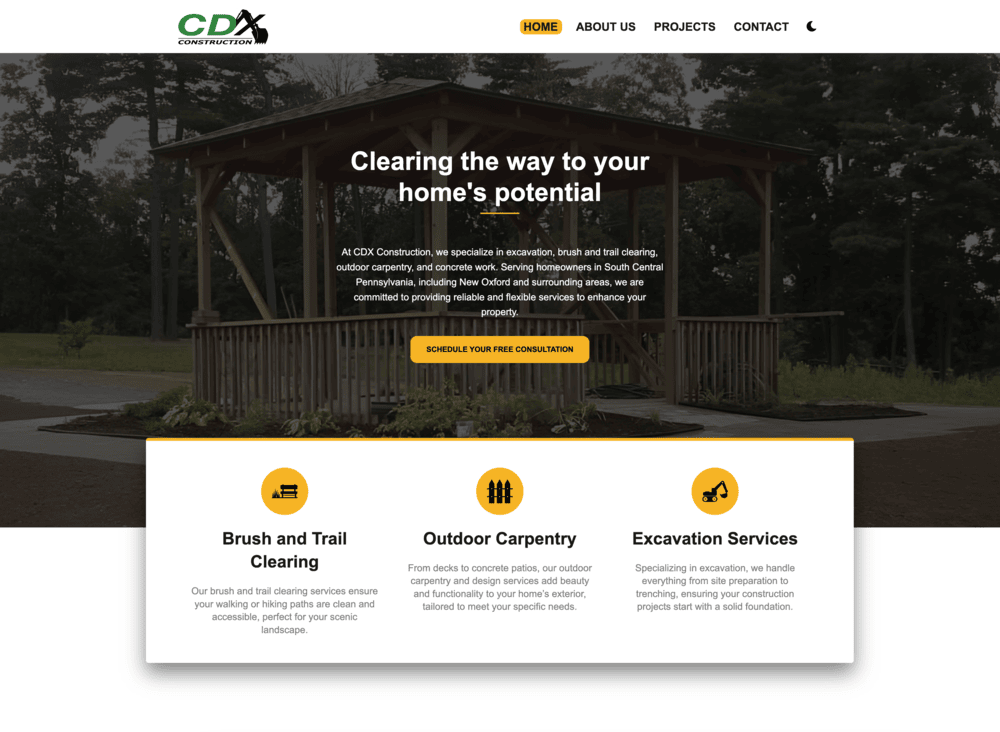
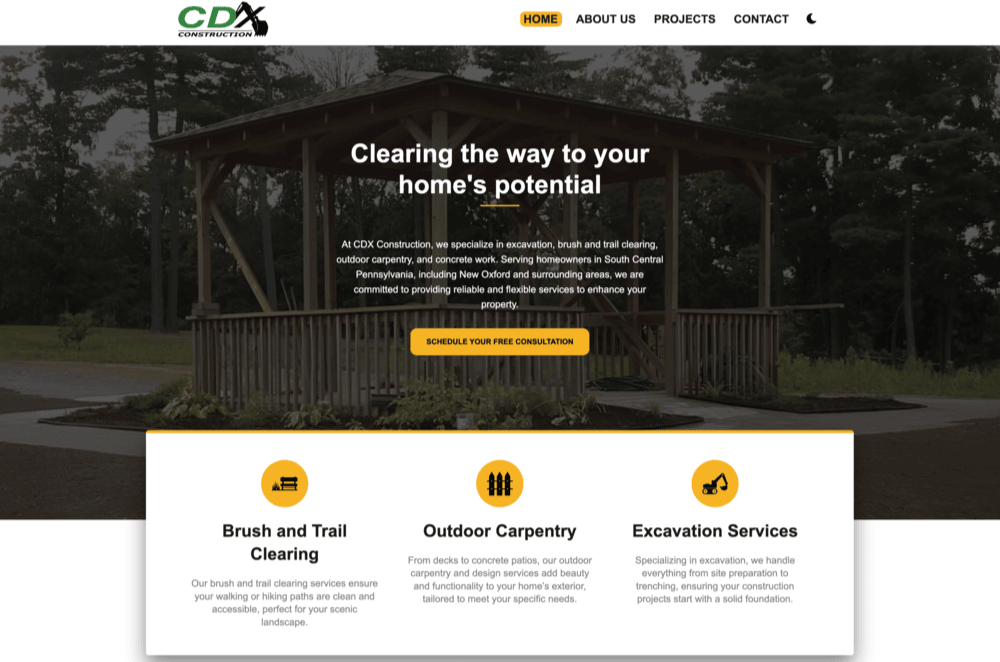
Additional image compression optimizations

diff --git a/src/index.html b/src/index.html
@@ -134,7 +134,7 @@ eleventyNavigation:
                 <source media="(max-width: 600px)" srcset="assets/images/devices1.png">
                 <!--Tablet and above Image-->
                 <source media="(min-width: 601px)" srcset="assets/images/devices1.png">
-                <img loading="lazy" decoding="async" srcset="assets/images/devices1.png" alt="devices showing responsive web design" width="562" height="568">
+                <img decoding="async" srcset="assets/images/devices1.png" alt="devices showing responsive web design" width="562" height="568">
             </picture>
         </div>
         <div class="cs-content">
@@ -257,10 +257,10 @@ eleventyNavigation:
     <div class="cs-container">
         <picture class="cs-picture">
             <!--Mobile Image-->
-            <source media="(max-width: 600px)" srcset="assets/images/foundation.jpg">
+            <source media="(max-width: 600px)" srcset="assets/images/foundation.webp">
             <!--Tablet and above Image-->
-            <source media="(min-width: 601px)" srcset="assets/images/foundation.jpg">
-            <img loading="lazy" decoding="async" src="assets/images/foundation.jpg" alt="models" width="586" height="690">
+            <source media="(min-width: 601px)" srcset="assets/images/foundation.webp">
+            <img loading="lazy" decoding="async" src="assets/images/foundation.webp" alt="models" width="586" height="690">
         </picture>
         <div class="cs-content">
             <span class="cs-topper">Our value to you</span>
